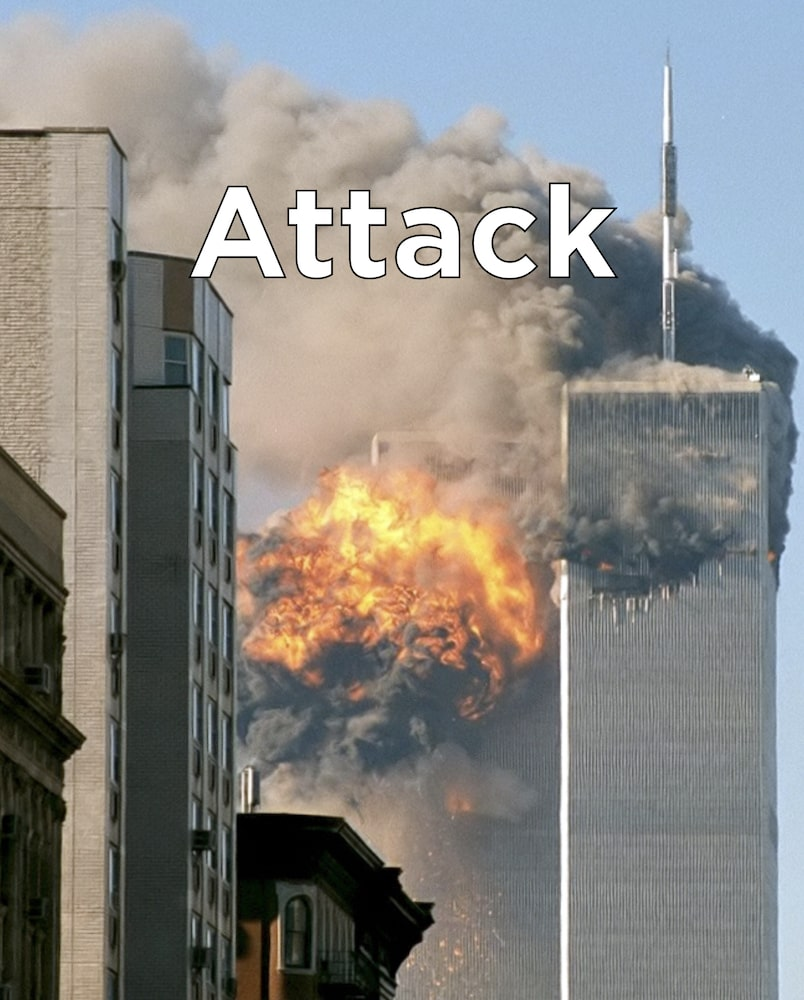
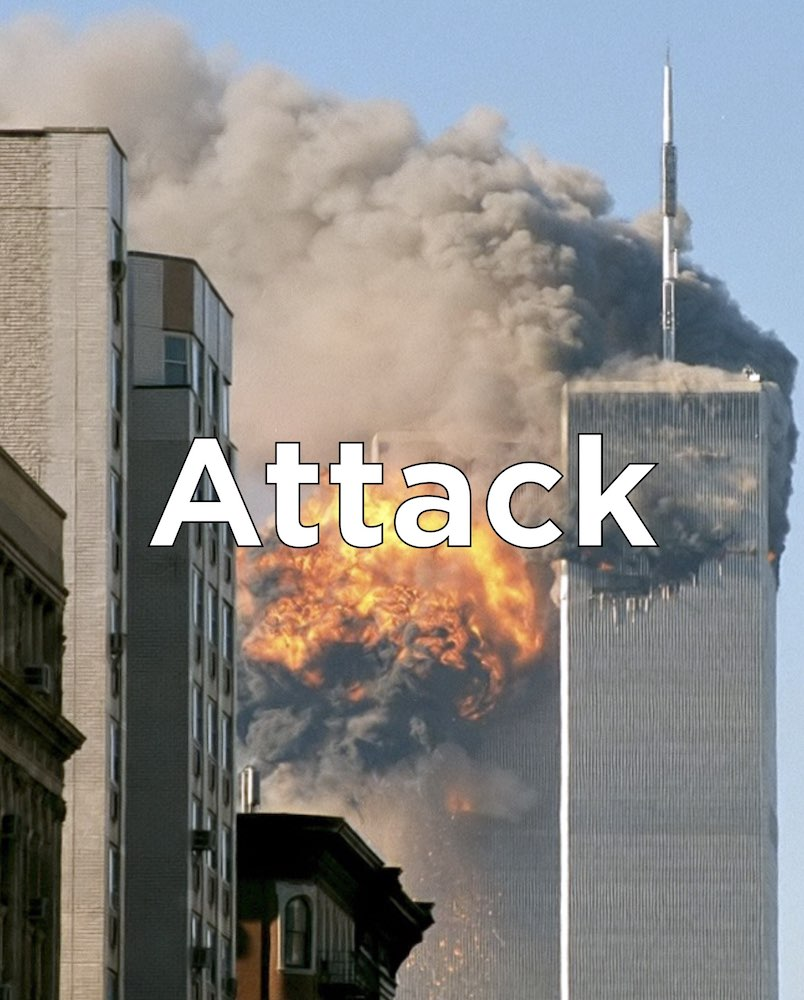
New main page layout

Changed region(s): [[0.1866, 0.434, 0.8085, 0.558], [0.2177, 0.155, 0.7774, 0.279]]

diff --git a/9-11_kiosk/911_kiosk.html b/9-11_kiosk/911_kiosk.html
@@ -39,10 +39,10 @@
       }
       #content-pane {
         position: absolute;
-        width: 60vw;
+        width: 80vw;
         height: 25vh;
-        top: 40vh;
-        left: 20vw;
+        top: 45vh;
+        left: 10vw;
         background-color: rgba(1,1,1, 0.5);
       }
       #fadeOutZone {
